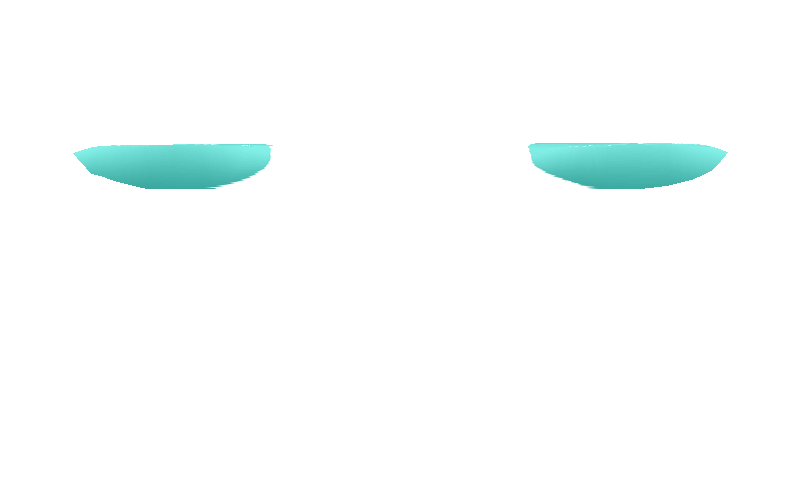
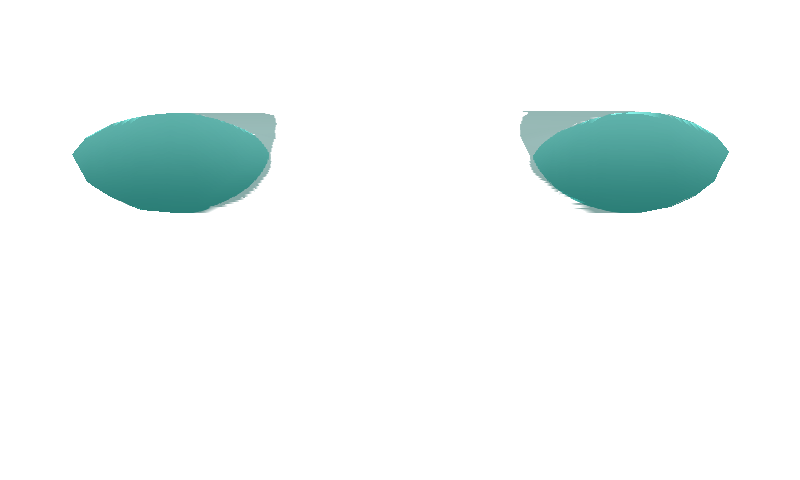
Mejorar el parpadeo

Changed region(s): [[0.625, 0.2188, 0.9062, 0.4688], [0.0938, 0.2188, 0.3438, 0.4688]]

diff --git a/video_generation.py b/video_generation.py
@@ -58,7 +58,7 @@ def generar_transicion_ojos(imagen_inicial, imagen_final, puntos_inicial, puntos
     clips = [
         ImageClip(np.array(img_inicial), duration=tiempo_exposicion*3),  # Imagen inicial
         *[ImageClip(np.array(frame), duration=frame_duration/2) for frame in frames_transicion],  # Transición
-        ImageClip(np.array(img_final), duration=tiempo_exposicion),  # Imagen final
+        ImageClip(np.array(img_final), duration=tiempo_exposicion*0.75),  # Imagen final
         *[ImageClip(np.array(frame), duration=frame_duration/2) for frame in reversed(frames_transicion)],  # Transición inversa,
         ImageClip(np.array(img_inicial), duration=tiempo_exposicion*3),  # Imagen inicial
     ]
@@ -97,7 +97,7 @@ generar_transicion_ojos(
     imagen_ojos_cerrados,
     puntos_abiertos,
     puntos_cerrados,
-    num_frames=6,
-    fps=24,
+    num_frames=10,
+    fps=60,
     output_video="parpadeo_suave.mp4"
 )
